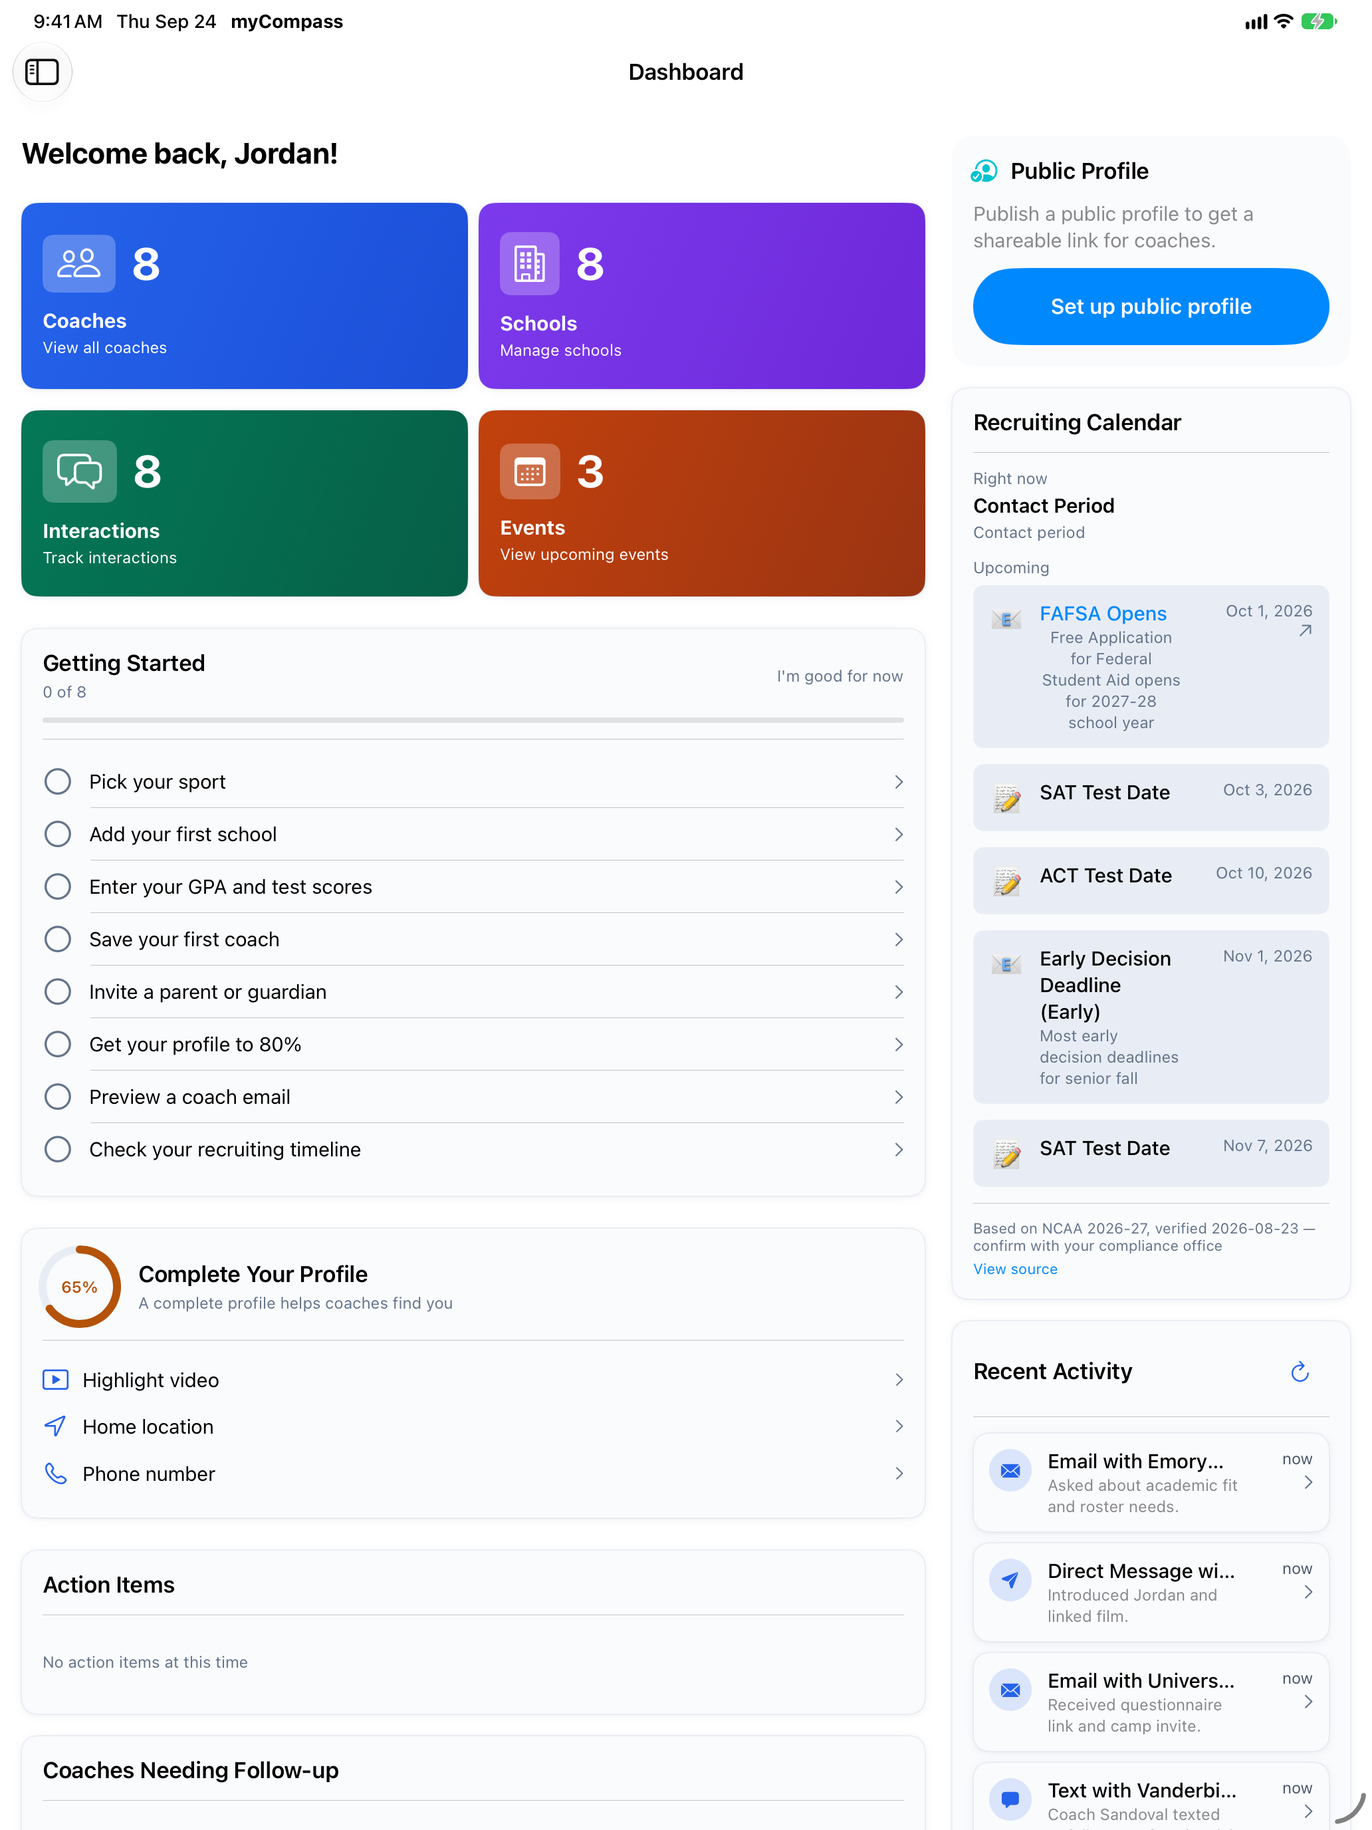
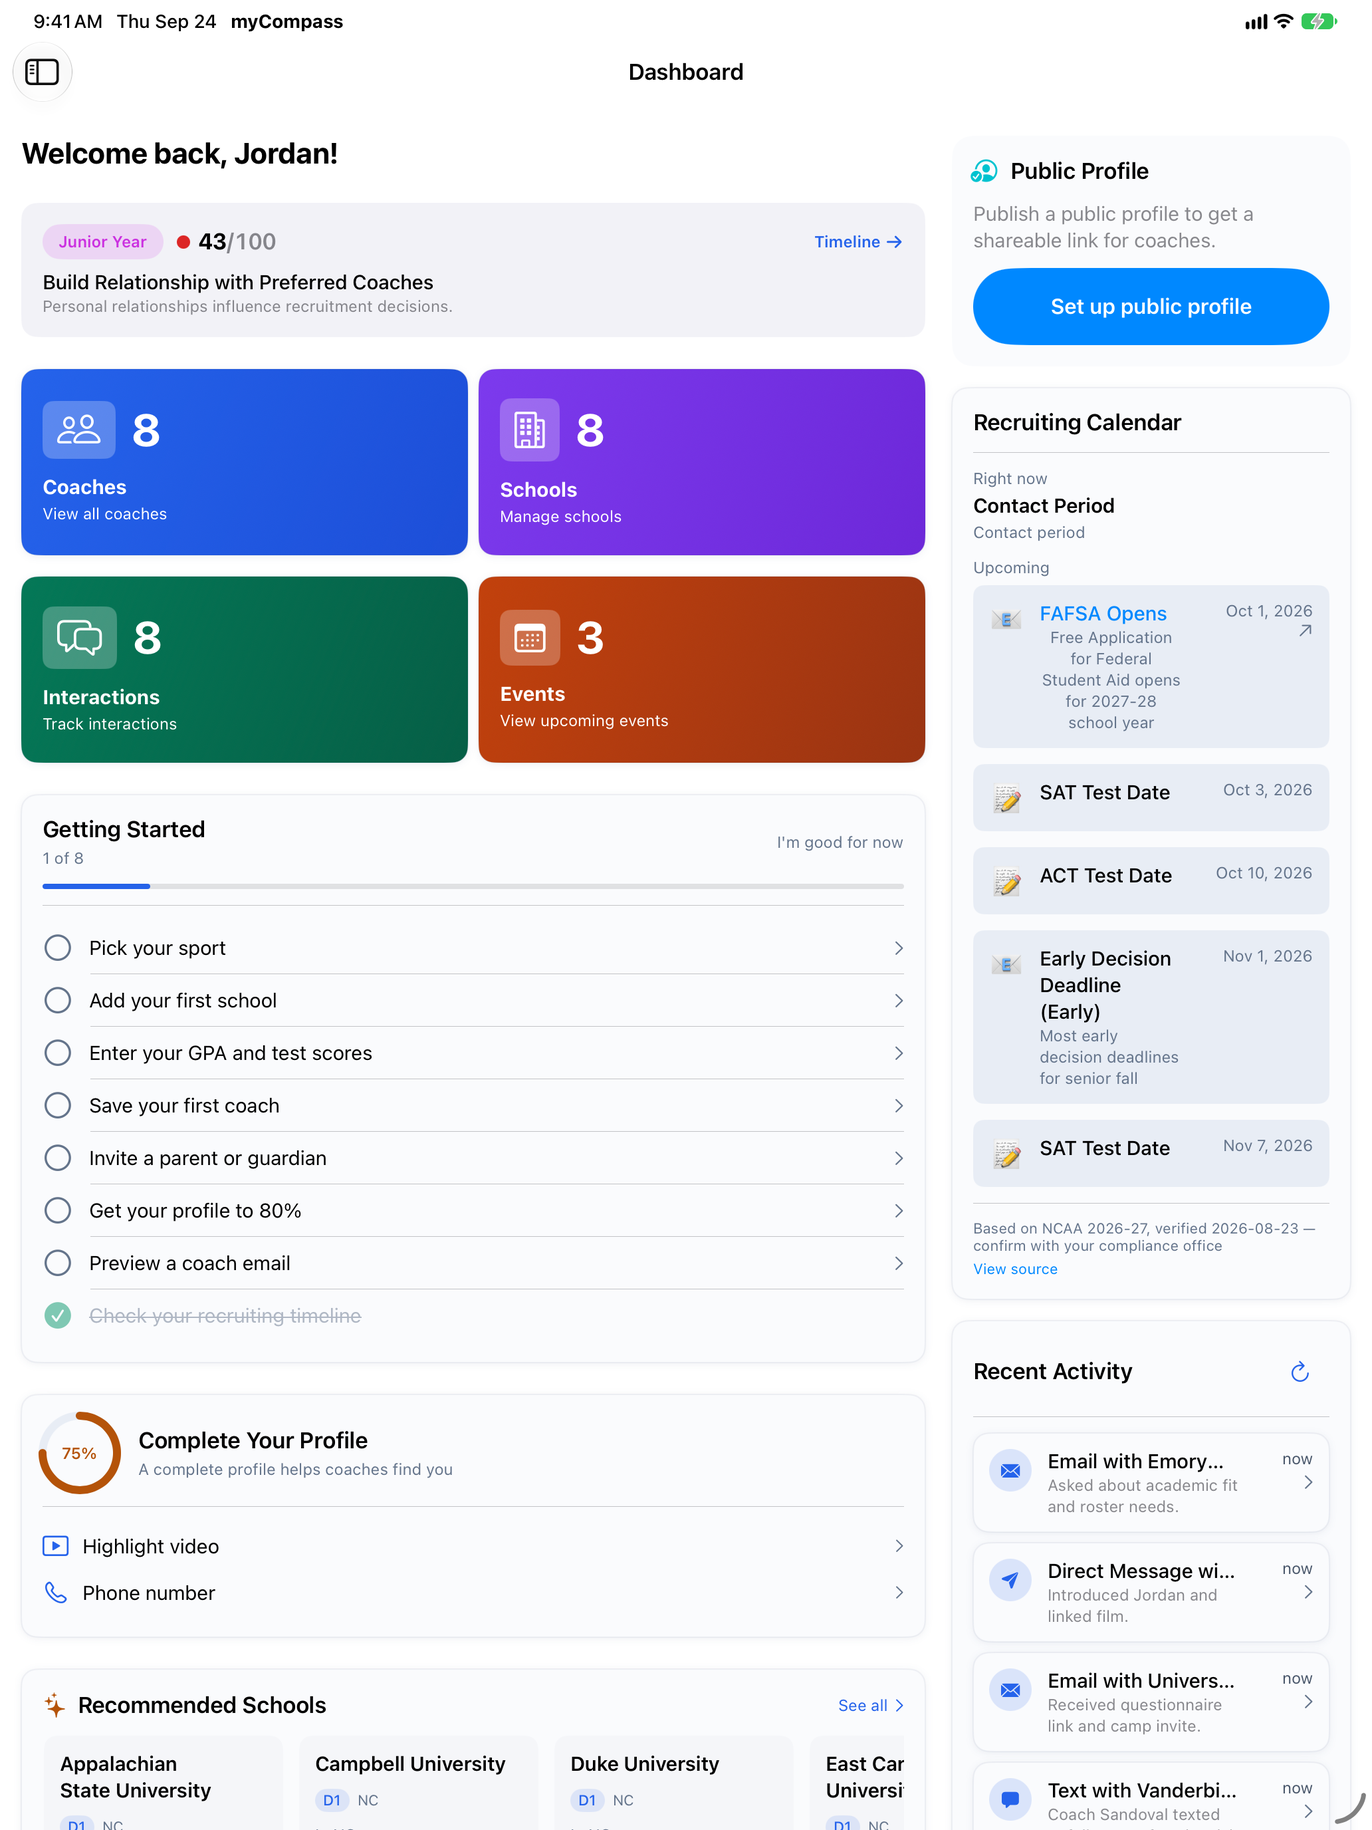
chore: address review, add iPhone set, seed school data for screenshots
Review fixes: loopback-only seed guard (URL hostname), reset demo passwords, ensure player family membership, explicit junior phase, debug-only captcha bypass behind --local-captcha-bypass + loopback host, capture test stops on first failed step and captures exactly the store screens. Seed now pulls College Scorecard data (cached) for map/college data, sets logos, home location, prefs and family notes. Adds iPhone 17 Pro Max shots (1320x2868).

diff --git a/scripts/seed-demo-screenshots.ts b/scripts/seed-demo-screenshots.ts
@@ -1,4 +1,7 @@
 import { createClient } from "@supabase/supabase-js";
+import { existsSync, readFileSync, writeFileSync } from "node:fs";
+import { tmpdir } from "node:os";
+import { join } from "node:path";
 
 // Seeds a realistic, entirely fictional family into the LOCAL Supabase stack so
 // App Store screenshots show a populated app. Idempotent: reseeding wipes and
@@ -11,7 +14,17 @@ if (!SERVICE_ROLE_KEY) {
   console.error("SUPABASE_SERVICE_ROLE_KEY is required (`supabase status -o env`)");
   process.exit(1);
 }
-if (!/(?:127\.0\.0\.1|localhost)/.test(SUPABASE_URL)) {
+// The seed wipes tables with the service-role key, so require a loopback host. A substring match
+// would accept e.g. https://localhost.example.com.
+const LOOPBACK_HOSTS = new Set(["localhost", "127.0.0.1", "[::1]"]);
+const isLoopback = (raw: string): boolean => {
+  try {
+    return LOOPBACK_HOSTS.has(new URL(raw).hostname);
+  } catch {
+    return false;
+  }
+};
+if (!isLoopback(SUPABASE_URL)) {
   console.error(`Refusing non-local target: ${SUPABASE_URL}`);
   process.exit(1);
 }
@@ -60,6 +73,12 @@ async function ensureAuthUser(email: string, name: string, role: string): Promis
     console.error(`Cannot create or find ${email}:`, created.error?.message);
     process.exit(1);
   }
+  // A leftover account may have a different password; the capture test signs in with PASSWORD.
+  must("reset demo credentials", await supabase.auth.admin.updateUserById(existing.id, {
+    password: PASSWORD,
+    email_confirm: true,
+    user_metadata: { display_name: name, role },
+  }));
   return existing.id;
 }
 
@@ -82,6 +101,12 @@ async function ensureFamily(parentId: string, playerId: string): Promise<string>
     familyId = unit.id as string;
     must("parent member", await supabase.from("family_members")
       .insert({ family_unit_id: familyId, user_id: parentId, role: "parent" }).select("id"));
+  }
+
+  // Checked separately: the parent may already belong to a family that lacks the player.
+  const { data: playerMember } = await supabase
+    .from("family_members").select("id").eq("user_id", playerId).eq("family_unit_id", familyId).maybeSingle();
+  if (!playerMember) {
     must("player member", await supabase.from("family_members")
       .insert({ family_unit_id: familyId, user_id: playerId, role: "player" }).select("id"));
   }
@@ -127,10 +152,144 @@ const SCHOOLS: SchoolSeed[] = [
   { name: "Tulane University", city: "New Orleans", state: "LA", division: "D1", conference: "AAC", status: "researching", fit_tier: "match", website: "https://tulanegreenwave.com", coach: { first: "Sam", last: "Okafor", role: "recruiting" } },
 ];
 
+const SCORECARD_FIELDS = [
+  "school.school_url", "school.address", "latest.student.size", "latest.admissions.admission_rate.overall",
+  "latest.cost.tuition.in_state", "latest.cost.tuition.out_of_state", "location.lat", "location.lon",
+  "latest.admissions.sat_scores.25th_percentile.overall", "latest.admissions.sat_scores.75th_percentile.overall",
+  "latest.admissions.act_scores.25th_percentile.cumulative", "latest.admissions.act_scores.75th_percentile.cumulative",
+];
+
+type ScorecardRow = Record<string, string | number | null>;
+
+// The same College Scorecard data the app's "Lookup college data" button stores in schools.academic_info,
+// so School Detail renders the map, College Data and Academic Fit sections instead of empty states.
+// DEMO_KEY allows only 30 requests/hour, so successful lookups are cached on disk (outside the repo).
+const CACHE_PATH = process.env.SCORECARD_CACHE ?? join(tmpdir(), "rc-scorecard-cache.json");
+const cache: Record<string, ScorecardRow> = existsSync(CACHE_PATH)
+  ? (JSON.parse(readFileSync(CACHE_PATH, "utf8")) as Record<string, ScorecardRow>)
+  : {};
+const cacheKey = (school: SchoolSeed) => `${school.name}|${school.state}`;
+
+async function lookupScorecard(school: SchoolSeed): Promise<ScorecardRow | null> {
+  const cached = cache[cacheKey(school)];
+  if (cached) return cached;
+
+  const key = process.env.COLLEGE_SCORECARD_API_KEY ?? "DEMO_KEY";
+  const params = new URLSearchParams({
+    api_key: key, "school.name": school.name, "school.state": school.state,
+    fields: SCORECARD_FIELDS.join(","), per_page: "1",
+  });
+  try {
+    const res = await fetch(`https://api.data.gov/ed/collegescorecard/v1/schools.json?${params}`);
+    if (!res.ok) throw new Error(`HTTP ${res.status}`);
+    const body = (await res.json()) as { results: ScorecardRow[] };
+    const row = body.results[0] ?? null;
+    if (row) {
+      cache[cacheKey(school)] = row;
+      writeFileSync(CACHE_PATH, JSON.stringify(cache));
+    }
+    return row;
+  } catch (error) {
+    console.warn(`Scorecard lookup failed for ${school.name}:`, (error as Error).message);
+    return null;
+  }
+}
+
+// Runs before anything is wiped: a rate-limited lookup must not leave schools seeded without data.
+async function requireScorecardData() {
+  const missing: string[] = [];
+  for (const school of SCHOOLS) {
+    if (!(await lookupScorecard(school))) missing.push(school.name);
+  }
+  if (missing.length > 0) {
+    console.error(`No Scorecard data for: ${missing.join(", ")}. Nothing was changed; retry later (cached lookups are kept).`);
+    process.exit(1);
+  }
+}
+
+const compact = <T extends Record<string, unknown>>(obj: T) =>
+  Object.fromEntries(Object.entries(obj).filter(([, v]) => v !== null && v !== undefined));
+
+async function enrichSchool(school: SchoolSeed) {
+  const row = await lookupScorecard(school);
+  if (!row) return {};
+  const domain = String(row["school.school_url"] ?? "").replace(/^https?:\/\//, "").replace(/\/.*$/, "").replace(/^www\./, "");
+  return {
+    favicon_url: domain ? `https://www.google.com/s2/favicons?domain=${domain}&sz=128` : null,
+    academic_info: compact({
+      address: row["school.address"], city: school.city, state: school.state,
+      latitude: row["location.lat"], longitude: row["location.lon"],
+      student_size: row["latest.student.size"],
+      admission_rate: row["latest.admissions.admission_rate.overall"],
+      tuition_in_state: row["latest.cost.tuition.in_state"],
+      tuition_out_of_state: row["latest.cost.tuition.out_of_state"],
+      sat_25th: row["latest.admissions.sat_scores.25th_percentile.overall"],
+      sat_75th: row["latest.admissions.sat_scores.75th_percentile.overall"],
+      act_25th: row["latest.admissions.act_scores.25th_percentile.cumulative"],
+      act_75th: row["latest.admissions.act_scores.75th_percentile.cumulative"],
+    }),
+  };
+}
+
+// The family's own research notes, so School Detail shows filled Pros/Cons and Why sections.
+type FamilyNotes = { pros: string[]; cons: string[]; why_program: string; fit_reason: string };
+const FAMILY_NOTES: Record<string, FamilyNotes> = {
+  "Stanford University": {
+    pros: ["Written offer in hand", "Top-tier academics", "Strong pitching development"],
+    cons: ["Far from home", "Very competitive admissions"],
+    why_program: "Elite academics with a real shot at playing early. Jordan loved the coaching staff on the call.",
+    fit_reason: "Offer received; official visit is scheduled.",
+  },
+  "Vanderbilt University": {
+    pros: ["Great campus and facilities", "SEC competition", "Enthusiastic recruiting coordinator"],
+    cons: ["High cost of attendance", "Roster is deep at pitcher"],
+    why_program: "Loved the official visit: the ballpark, the players, and how the staff talked about development.",
+    fit_reason: "Mid-size campus and top academics match Jordan's list.",
+  },
+  "University of Virginia": {
+    pros: ["Strong academics", "ACC schedule", "Camp invite received"],
+    cons: ["Large campus"],
+    why_program: "Great balance of academics and baseball. Waiting to hear back on the questionnaire.",
+    fit_reason: "Sending highlight video after the fall season.",
+  },
+  "Wake Forest University": {
+    pros: ["Close to home", "Smaller classes"],
+    cons: ["No response from staff yet"],
+    why_program: "Close to home with a strong academic reputation. Good ACC exposure.",
+    fit_reason: "DM sent to the recruiting coordinator; following up next week.",
+  },
+  "Rice University": {
+    pros: ["Excellent academics", "Small campus"],
+    cons: ["Long travel from Charlotte"],
+    why_program: "Top academics and a small, close-knit program.",
+    fit_reason: "Still researching; adding to the fall showcase list.",
+  },
+  "Davidson College": {
+    pros: ["Close to home", "Small classes", "Chance to play right away"],
+    cons: ["Smaller baseball program"],
+    why_program: "Local school with a great reputation and a real path to playing time.",
+    fit_reason: "A strong safety option with excellent academics.",
+  },
+  "Emory University": {
+    pros: ["Top academics", "Great location in Atlanta"],
+    cons: ["D3: no athletic scholarship"],
+    why_program: "Strong pre-med path; Jordan is interested in the sports-medicine program.",
+    fit_reason: "Emailed the head coach about roster needs.",
+  },
+  "Tulane University": {
+    pros: ["Great city", "Competitive AAC schedule"],
+    cons: ["Far from home"],
+    why_program: "Fun campus and a competitive baseball program.",
+    fit_reason: "Just getting started; need to review the questionnaire.",
+  },
+};
+
 async function seedSchoolsAndCoaches(parentId: string, familyId: string) {
-  const schools = must("schools", await supabase.from("schools").insert(
-    SCHOOLS.map(({ coach: _c, ...s }) => ({ ...s, user_id: parentId, family_unit_id: familyId, location: `${s.city}, ${s.state}` }))
-  ).select("id, name"));
+  const rows = await Promise.all(SCHOOLS.map(async ({ coach: _c, ...s }) => ({
+    ...s, user_id: parentId, family_unit_id: familyId, location: `${s.city}, ${s.state}`,
+    ...FAMILY_NOTES[s.name], ...(await enrichSchool({ ...s, coach: _c })),
+  })));
+  const schools = must("schools", await supabase.from("schools").insert(rows).select("id, name"));
   const schoolId = (name: string) => schools.find((s) => s.name === name)!.id as string;
 
   const coaches = must("coaches", await supabase.from("coaches").insert(
@@ -222,8 +381,20 @@ async function seedPlayerPreferences(playerId: string) {
       weight_lbs: 185,
       gpa: 3.9,
       sat_score: 1420,
+      act_score: 34,
+      school_state: "NC",
+      campus_size_preference: "medium",
+      cost_sensitivity: "medium",
       gender: "male",
     },
+  }).select("id"));
+
+  // Home location powers distance labels, the distance filter and the map's "Distance from Home".
+  await supabase.from("user_preferences").delete().eq("user_id", playerId).eq("category", "location");
+  must("home location", await supabase.from("user_preferences").insert({
+    user_id: playerId,
+    category: "location",
+    data: { city: "Charlotte", state: "NC", zip: "28277", latitude: 35.0527, longitude: -80.8431 },
   }).select("id"));
 }
 
@@ -240,6 +411,7 @@ async function seedTasks(playerId: string) {
 }
 
 async function main() {
+  await requireScorecardData();
   const parentId = await ensureAuthUser(PARENT.email, PARENT.name, PARENT.role);
   const playerId = await ensureAuthUser(PLAYER.email, PLAYER.name, PLAYER.role);
   await upsertUserRow(parentId, PARENT.email, PARENT.name, PARENT.role);
@@ -251,6 +423,9 @@ async function main() {
     hometown_city: "Charlotte", hometown_state: "NC", height_inches: 74, weight_lbs: 185,
     jersey_number: "22", dominant_side: "left", profile_completeness: 92,
     phase_milestone_data: { onboarding_complete: true },
+    // Explicit: web's get_athlete_status maps a null phase to grade 12, which would score the
+    // seeded grade-11 tasks against the senior-year denominator.
+    current_phase: "junior",
   });
   const familyId = await ensureFamily(parentId, playerId);
 

diff --git a/TheRecruitingCompass/TheRecruitingCompassUITests/E2E/AppStoreScreenshotTests.swift b/TheRecruitingCompass/TheRecruitingCompassUITests/E2E/AppStoreScreenshotTests.swift
@@ -14,6 +14,7 @@ final class AppStoreScreenshotTests: XCTestCase {
     )
     app = XCUIApplication()
     E2ETestEnvironment.configure(app)
+    app.launchArguments.append("--local-captcha-bypass")
     // Timeline and Action Items are served by the web API; run it locally (`nuxi dev` on :3003).
     app.launchEnvironment["API_BASE_URL"] =
       ProcessInfo.processInfo.environment["SCREENSHOT_API_BASE_URL"] ?? "http://localhost:3003"
@@ -21,16 +22,20 @@ final class AppStoreScreenshotTests: XCTestCase {
   }
 
   @MainActor
-  func testCaptureIPadScreens() throws {
-    continueAfterFailure = true
+  func testCaptureScreens() throws {
+    // continueAfterFailure stays false: a failed sign-in or navigation must stop the run rather than
+    // save the previous screen under the next destination's name.
     signIn()
     dismissNoise()
     capture("01-dashboard")
 
     openSection("Schools")
     capture("02-schools")
-    openRow(containing: "Stanford")
+    openRow(containing: "Vanderbilt")
+    sleep(10) // Apple Maps tiles load over the network; an unloaded map is a blank grid.
     capture("03-school-detail")
+    scrollPageUp()
+    capture("03b-school-data")
 
     openSection("Coaches")
     capture("04-coaches")
@@ -41,24 +46,10 @@ final class AppStoreScreenshotTests: XCTestCase {
     capture("06-interactions")
     openSection("Timeline")
     capture("07-timeline")
-    let guidance = app.buttons["Guidance"]
-    if guidance.waitForExistence(timeout: 3) {
-      guidance.tap()
-      sleep(1)
-      for section in ["Common Worries", "What NOT to Stress About"] {
-        let header = app.staticTexts[section]
-        if header.exists { header.tap() }
-      }
-      capture("07b-timeline-guidance")
-    }
     openSection("Performance")
     capture("08-performance")
-    openSection("Offers")
-    capture("09-offers")
     openSection("Events")
-    capture("10-events")
-    openSection("Analytics")
-    capture("11-analytics")
+    capture("09-events")
   }
 
   // MARK: - Helpers
@@ -78,10 +69,8 @@ final class AppStoreScreenshotTests: XCTestCase {
     password.typeText("DemoPassword1")
 
     app.buttons["Sign in to account"].tap()
-    XCTAssertTrue(
-      app.buttons["Show Sidebar"].waitForExistence(timeout: 30),
-      "Never reached the dashboard — sign-in failed"
-    )
+    let landmark = isPad ? app.buttons["Show Sidebar"] : app.tabBars.firstMatch
+    XCTAssertTrue(landmark.waitForExistence(timeout: 30), "Never reached the dashboard — sign-in failed")
     sleep(5)
   }
 
@@ -94,9 +83,44 @@ final class AppStoreScreenshotTests: XCTestCase {
     sleep(1)
   }
 
-  /// Opens a sidebar destination, revealing the sidebar first when it is collapsed. The dashboard has
-  /// same-named stat tiles, so the sidebar entry is the match sitting in the leading column.
+  private var isPad: Bool { UIDevice.current.userInterfaceIdiom == .pad }
+
+  /// iPad: sidebar destination. iPhone: tab-bar tab, or a row in the More menu for the overflow features.
   private func openSection(_ title: String) {
+    guard isPad else { openPhoneSection(title); return }
+    openSidebarSection(title)
+  }
+
+  private func openPhoneSection(_ title: String) {
+    // Pushed detail screens hide the tab bar; pop back to a root screen first.
+    for _ in 0..<3 where !app.tabBars.firstMatch.exists {
+      app.navigationBars.buttons.firstMatch.tap()
+      sleep(1)
+    }
+    let navigator = MainTabNavigator(app: app)
+    let tabs = ["Dashboard", "Schools", "Coaches", "Interactions"]
+    if tabs.contains(title) {
+      let tab = MainTabNavigator.Tab(rawValue: title)!
+      XCTAssertTrue(navigator.goTo(tab), "Tab \(title) not reached")
+    } else {
+      openMoreRow(title == "Timeline" ? "Recruiting Timeline" : title, navigator: navigator)
+    }
+    sleep(3)
+  }
+
+  /// Opens a More-menu row. Destination nav-bar titles differ from row titles ("Performance Metrics"),
+  /// so success means leaving the More screen, not matching a title.
+  private func openMoreRow(_ rowTitle: String, navigator: MainTabNavigator) {
+    XCTAssertTrue(navigator.goToMore(), "More tab not reached")
+    let row = app.buttons.matching(NSPredicate(format: "label BEGINSWITH %@", rowTitle)).firstMatch
+    XCTAssertTrue(row.waitForExistence(timeout: 5), "More row \(rowTitle) not found")
+    row.tap()
+    XCTAssertTrue(app.navigationBars["More"].waitForNonExistence(timeout: 10), "Still on More after tapping \(rowTitle)")
+  }
+
+  /// Reveals the sidebar first when it is collapsed. The dashboard has same-named stat tiles, so the
+  /// sidebar entry is the match sitting in the leading column.
+  private func openSidebarSection(_ title: String) {
     func sidebarItem() -> XCUIElement? {
       app.staticTexts.matching(NSPredicate(format: "label == %@", title))
         .allElementsBoundByIndex.first { $0.frame.midX < 330 && $0.frame.midY > 100 }
@@ -119,6 +143,16 @@ final class AppStoreScreenshotTests: XCTestCase {
     }
     row.tap()
     sleep(3)
+  }
+
+  /// Drags from the bottom third, where no map sits, so the page scrolls instead of the map panning.
+  private func scrollPageUp() {
+    let start = app.coordinate(withNormalizedOffset: CGVector(dx: 0.5, dy: 0.88))
+    let end = app.coordinate(withNormalizedOffset: CGVector(dx: 0.5, dy: 0.2))
+    start.press(forDuration: 0.1, thenDragTo: end)
+    sleep(1)
+    start.press(forDuration: 0.1, thenDragTo: end)
+    sleep(1)
   }
 
   private func capture(_ name: String) {

diff --git a/TheRecruitingCompass/TheRecruitingCompass/Core/Services/Turnstile/TurnstileTokenProvider.swift b/TheRecruitingCompass/TheRecruitingCompass/Core/Services/Turnstile/TurnstileTokenProvider.swift
@@ -39,10 +39,20 @@ final class TurnstileTokenProvider: NSObject, TurnstileTokenProviding {
     webView.loadHTMLString(Self.html, baseURL: URL(string: "https://myrecruitingcompass.com"))
   }
 
+  #if DEBUG
+  /// The local Supabase stack used for App Store screenshot capture has captcha disabled and can't
+  /// complete a real Cloudflare challenge, so it ignores the token. Opt-in via a dedicated launch flag
+  /// and only when Supabase is a loopback host, so no remote stack is ever handed a fake token.
+  private static var shouldBypassCaptcha: Bool {
+    ProcessInfo.processInfo.arguments.contains("--local-captcha-bypass")
+      && ["localhost", "127.0.0.1", "::1"].contains(SupabaseConfig.url.host ?? "")
+  }
+  #endif
+
   func getToken() async throws -> String {
-    // The local Supabase stack used by UI tests / screenshot capture has captcha disabled
-    // and can't complete a real Cloudflare challenge; it ignores this token.
-    if ProcessInfo.processInfo.arguments.contains("--uitesting") { return "uitesting-captcha-bypass" }
+    #if DEBUG
+    if Self.shouldBypassCaptcha { return "local-captcha-bypass" }
+    #endif
     hasRetriedAfterExpiry = false
     try await waitUntilReady()
     return try await executeChallenge()
